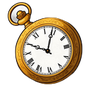
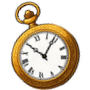
More cursor fixes

diff --git a/scripts/process-cursor-imports.py b/scripts/process-cursor-imports.py
@@ -38,6 +38,11 @@ POST_FIT_LINEAR_SCALE: dict[str, float] = {
     "shrek-cursor.png": 0.6,
 }
 
+# Uniform zoom then crop back to the current square (Chrome 128px cap). Tuple: (zoom, vertical: "center"|"top"|"bottom").
+ZOOM_SQUARE_CROP: dict[str, tuple[float, str]] = {
+    "scissorhands-cursor.png": (1.2, "bottom"),
+}
+
 
 def slug_output_name(path: Path) -> str:
     base = path.stem.lower()
@@ -59,6 +64,26 @@ def fit_square_rgba(im: Image.Image, size: int) -> Image.Image:
     oy = (size - nh) // 2
     canvas.paste(im, (ox, oy), im)
     return canvas
+
+
+def zoom_square_crop(im: Image.Image, zoom: float, vertical: str = "center") -> Image.Image:
+    """Scale a square RGBA by `zoom`, then crop to the original side length (horizontal center)."""
+    im = im.convert("RGBA")
+    w, h = im.size
+    if w != h or w <= 0:
+        return im
+    out_side = w
+    w2 = max(1, round(w * zoom))
+    h2 = max(1, round(h * zoom))
+    scaled = im.resize((w2, h2), Image.Resampling.LANCZOS)
+    left = (w2 - out_side) // 2
+    if vertical == "bottom":
+        top = max(0, h2 - out_side)
+    elif vertical == "top":
+        top = 0
+    else:
+        top = (h2 - out_side) // 2
+    return scaled.crop((left, top, left + out_side, top + out_side))
 
 
 def main() -> None:
@@ -93,6 +118,10 @@ def main() -> None:
         if scale is not None:
             n = max(1, round(args.size * scale))
             im = im.resize((n, n), Image.Resampling.LANCZOS)
+        zt = ZOOM_SQUARE_CROP.get(dest.name)
+        if zt is not None:
+            zf, v_anchor = zt
+            im = zoom_square_crop(im, zf, v_anchor)
         im.save(dest, "PNG", optimize=True)
         print("wrote", dest.relative_to(root))
 
